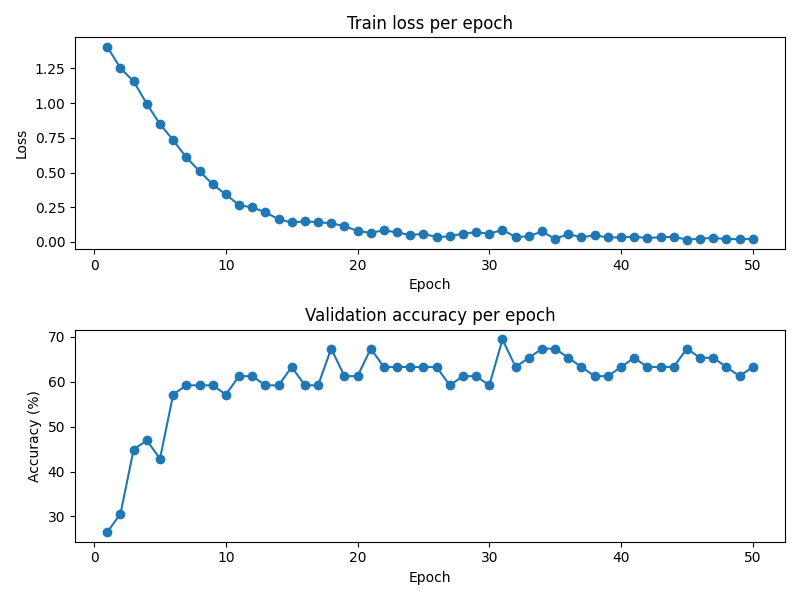
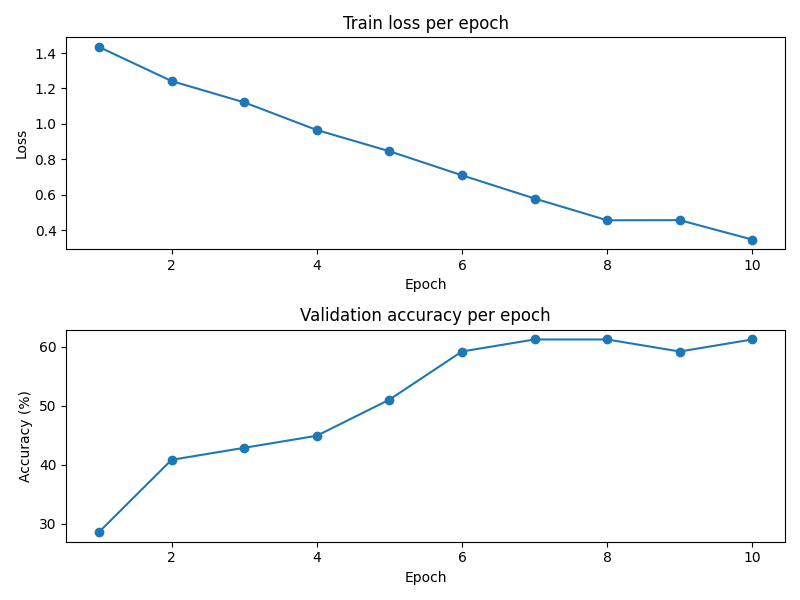
auto png

diff --git a/Training_Model_Maikel.py b/Training_Model_Maikel.py
@@ -17,7 +17,7 @@ import matplotlib.pyplot as plt
 import numpy as np
 
 # ====================== CONFIG ======================
-base_url = "C:/Users/maike/OneDrive/Documents/School/Unif/ML_2526/Project/dataset"
+base_url = "C:\\School\\3de ba\\mach\\taak\\dataset"
 
 train_data_url = os.path.join(base_url, "train", "images")
 valid_data_url = os.path.join(base_url, "valid", "images")
@@ -27,12 +27,15 @@ train_labels_url = os.path.join(base_url, "train", "labels")
 valid_labels_url = os.path.join(base_url, "valid", "labels")
 test_labels_url  = os.path.join(base_url, "test",  "labels")
 
+#name sequence
 batch_size = 32
 learning_rate = 1e-4
-epochs = 50
-num_classes = 4
-model_save_path = "C:/Users/maike/OneDrive/Documents/School/Unif/ML_2526/Project/Trained_Models/ResNet18_finetuned.pth"
+epochs = 2
 img_size = 224
+
+num_classes = 4
+model_save_path = "C:\\School\\3de ba\\mach\\taak\\dataset\\ResNet18_finetuned.pth"
+
 num_workers = min(4, os.cpu_count() or 0)  # safe default
 
 # ====================== DATASET ======================
@@ -233,7 +236,7 @@ def main():
     plt.title("Validation accuracy per epoch")
     plt.xlabel("Epoch"); plt.ylabel("Accuracy (%)")
     plt.tight_layout()
-    plt.savefig("training_summary.png")
+    plt.savefig(f"training_summary_{batch_size}_{learning_rate}_{epochs}_{img_size}.png")
     plt.show()
 
 if __name__ == "__main__":
